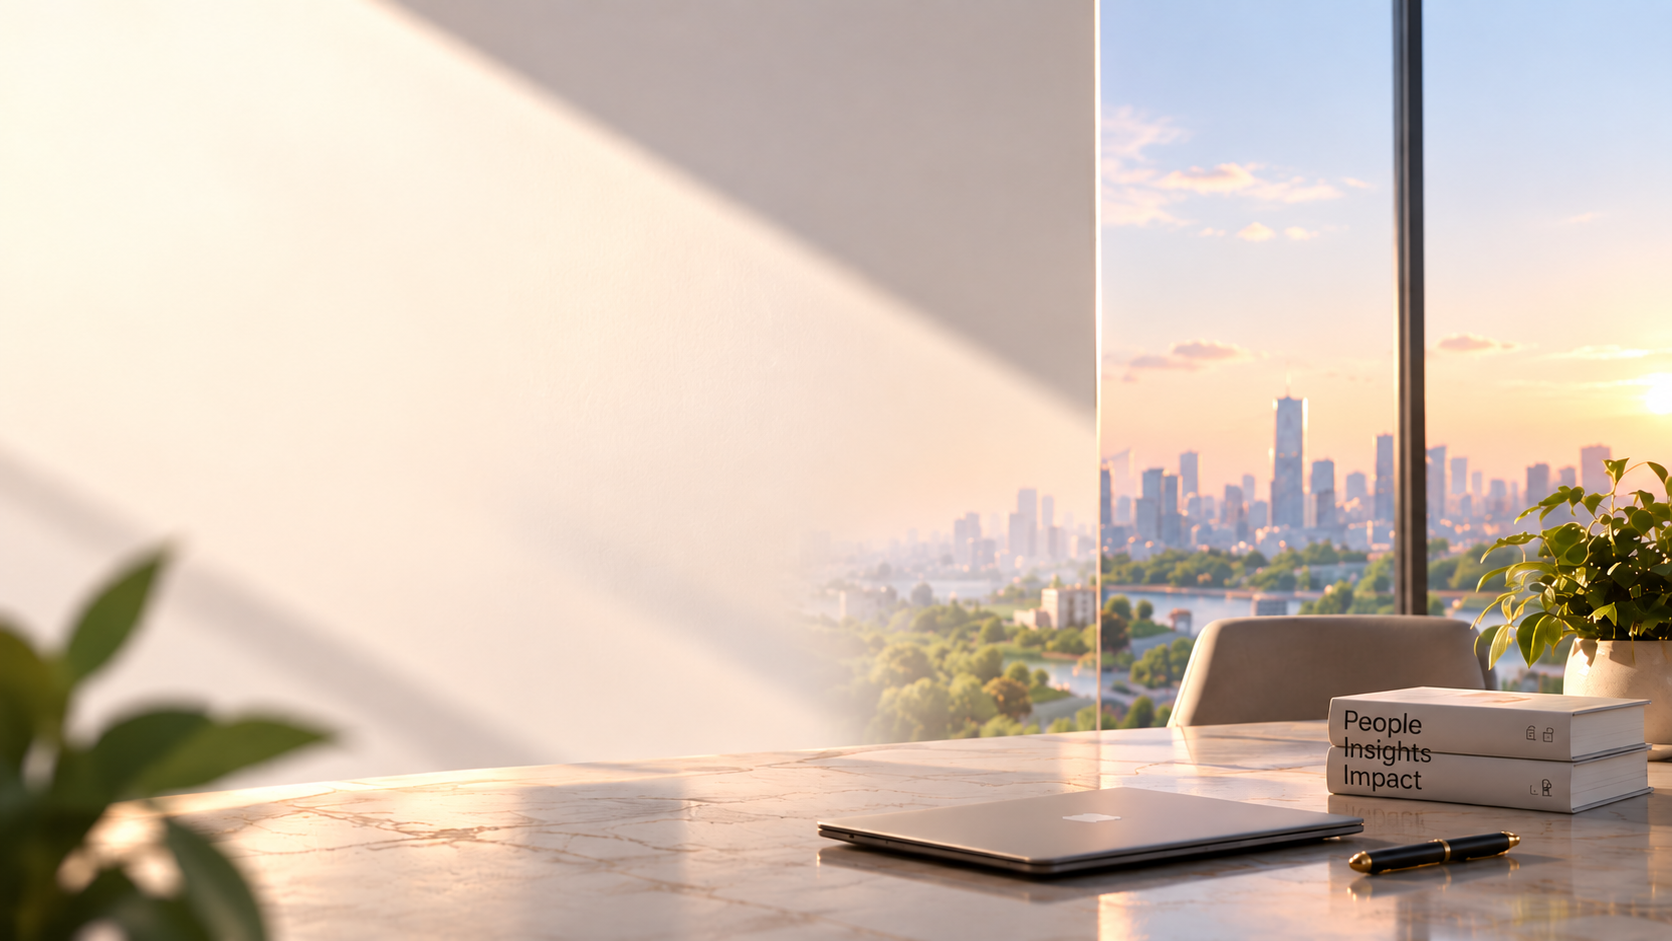
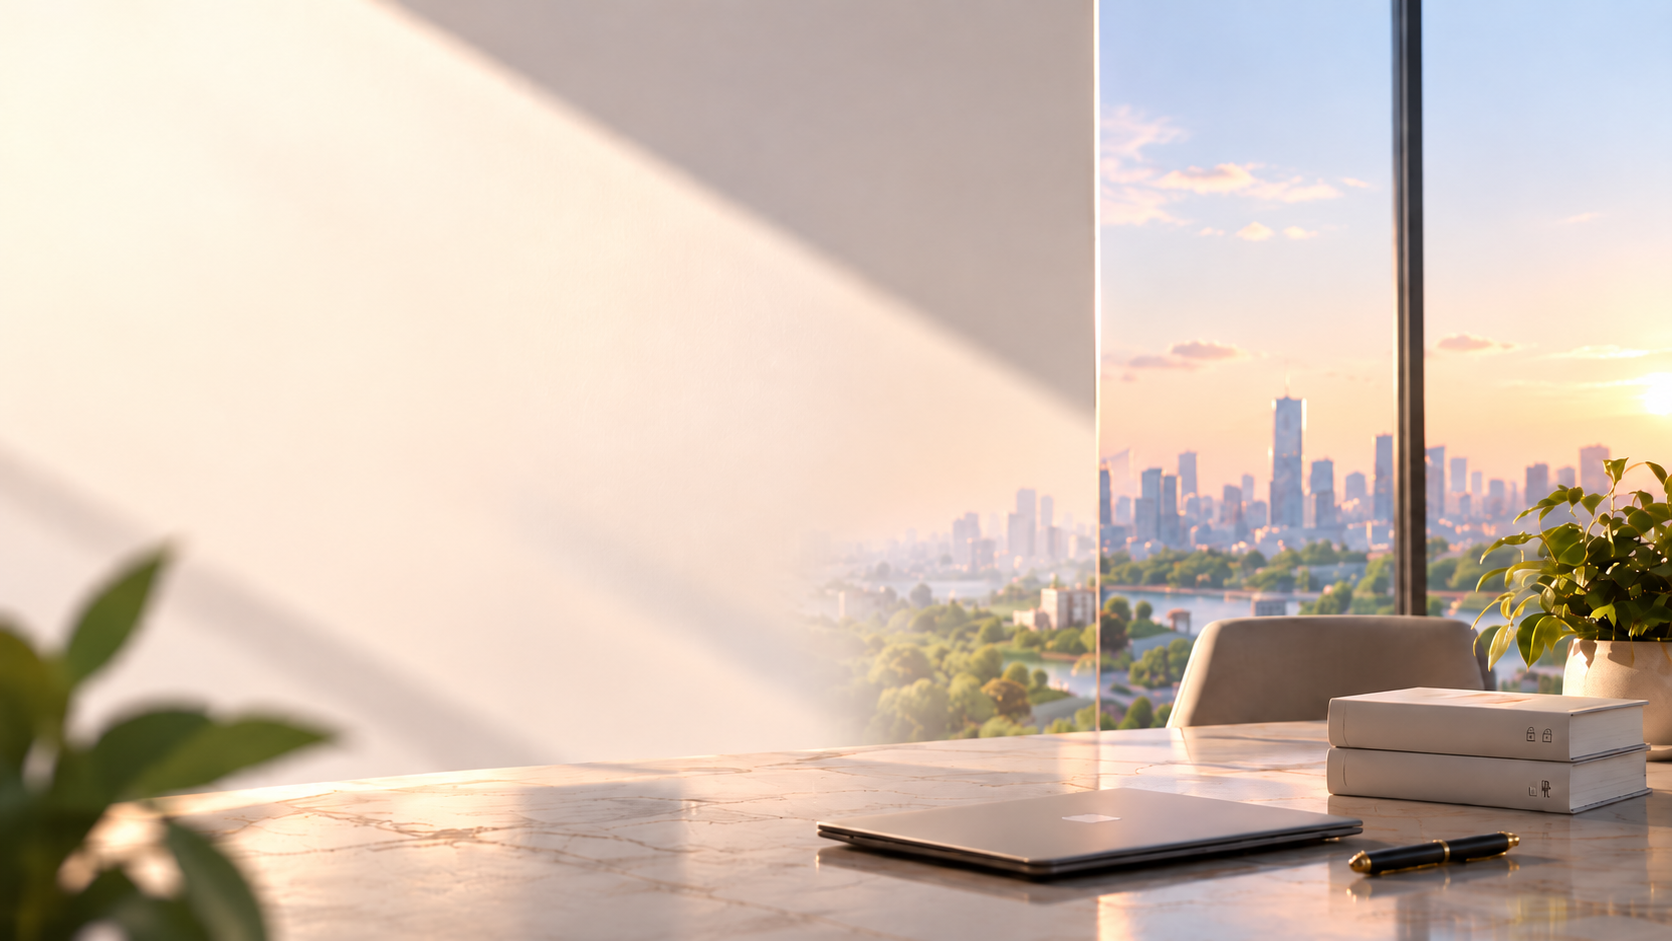
KM-51: the dialog stops jumping, Dex stops and previews, the Dex pill lights up
Items 2, 3 and 4 of the demo batch. Items 1, 5, 6 shipped in KM-50.

── 2. The New Task dialog "jumps off" ─────────────────────────────────────
Not a select bug and not a platform bug — the founder saw it on desktop,
Android and iOS because it happens every time. Three blocks in this form are
conditional: the operational-category select appears with `isOp`, the
assign-by-role select DISAPPEARS the moment you pick a person, and the
approver select appears with the checkbox. Radix centres the panel, so
removing ~90px of field moves the top edge down 45px and pulls everything
below it up. Measured on the same DOM, ticking one checkbox:

    centred (before)      box top moved -45px, title field moved -45px
    top-anchored (after)  box top moved   0px, title field moved   0px

Desktop is now anchored at 6vh, so height changes are absorbed downward and
nothing above the change moves. Phone goes full-bleed, which is the founder's
own fallback and independently right: iOS shrinks the visual viewport when a
<select> picker opens, and h-full resolves against the layout viewport, which
the picker does not touch.

Two traps in the way, both caught by measuring the shipped CSS:
  · `rounded-none` is redefined to 0.5rem by a legacy shim in index.css, so
    the full-screen sheet is squared off with [border-radius:0] instead.
  · tailwindcss-animate's class names are not in tailwind-merge's group
    table, so `slide-in-from-top-0` did not replace `slide-in-from-top-[48%]`
[…]

diff --git a/frontend/src/hooks/useDexCapture.js b/frontend/src/hooks/useDexCapture.js
@@ -29,11 +29,21 @@ const POLL_MS = 1200;
 const POLL_TIMEOUT_MS = 90000;
 
 /**
- * @param {{onCaptured?:Function, onRecordingChange?:Function, watch?:boolean}} opts
+ * @param {{onCaptured?:Function, onRecordingChange?:Function, watch?:boolean,
+ *          onTranscript?:Function}} opts
  *        watch — poll the note until it is structured and expose `understanding`.
  *        Off by default so DexCaptureBar's behaviour is bit-for-bit unchanged.
+ *
+ *        onTranscript — KM-51. When given, stopping a recording TRANSCRIBES AND
+ *        STOPS THERE: the text is handed back and nothing is structured, nothing
+ *        is auto-sent. It exists because the phone's Dex had no review step —
+ *        `mr.onstop` uploaded, `follow()` structured, and an answer appeared for
+ *        something the founder had not confirmed saying. Their words: "only when
+ *        I press the stop button it should take that as a query", and then a
+ *        preview before it goes anywhere. A hook that both records AND commits
+ *        cannot offer that, so the commit half is now the caller's decision.
  */
-export function useDexCapture({ onCaptured, onRecordingChange, watch = false } = {}) {
+export function useDexCapture({ onCaptured, onRecordingChange, watch = false, onTranscript } = {}) {
   const [text, setText] = useState("");
   const [sending, setSending] = useState(false);
   const [recording, setRecording] = useState(false);
@@ -42,6 +52,10 @@ export function useDexCapture({ onCaptured, onRecordingChange, watch = false } =
   const [levels, setLevels] = useState(() => new Array(BARS).fill(0));
   // { noteId, status, transcript, language, decision, tasks[] } | null
   const [understanding, setUnderstanding] = useState(null);
+  // Held in a ref so changing the handler never re-creates startRecording and
+  // orphans a live MediaRecorder.
+  const onTranscriptRef = useRef(onTranscript);
+  onTranscriptRef.current = onTranscript;
 
   const mediaRef = useRef(null);
   const chunksRef = useRef([]);
@@ -99,6 +113,35 @@ export function useDexCapture({ onCaptured, onRecordingChange, watch = false } =
       if (mediaRef.current?.state === "recording") mediaRef.current.stop();
     };
   }, [stopMeter]);
+
+  /** KM-51 — poll one note only until its TRANSCRIPT exists, then hand it back.
+      Deliberately not `follow()`: that one waits for `status === "done"` and a
+      decision_id, i.e. for the server to have committed the thing. Here the
+      transcript is the whole point and the commit has not been authorised yet. */
+  const pollTranscript = useCallback(async (noteId) => {
+    const startedAt = Date.now();
+    const gen = ++followRef.current;
+    const live = () => aliveRef.current && followRef.current === gen;
+    const step = async () => {
+      if (!live()) return;
+      try {
+        const note = (await api.get(`/voice-notes/${noteId}`)).data || {};
+        if (note.transcript) { setSending(false); onTranscriptRef.current?.(note.transcript); return; }
+        if (note.status === "failed" || note.error) {
+          setSending(false);
+          toast.error(note.error || "Could not transcribe that");
+          return;
+        }
+      } catch { /* a dropped poll is not a failure — the next one may land */ }
+      if (Date.now() - startedAt > POLL_TIMEOUT_MS) {
+        setSending(false);
+        toast.error("Transcription timed out");
+        return;
+      }
+      pollRef.current = setTimeout(step, POLL_MS);
+    };
+    step();
+  }, []);
 
   /** Poll one note until it is structured, then read the decision it produced. */
   const follow = useCallback(async (noteId, seed = {}) => {
@@ -199,12 +242,20 @@ export function useDexCapture({ onCaptured, onRecordingChange, watch = false } =
           const res = await api.post("/voice-notes", fd, {
             headers: { "Content-Type": "multipart/form-data" },
           });
+          /* KM-51 — with onTranscript the upload is a TRANSCRIPTION request and
+             nothing more. `sending` deliberately stays true through the poll,
+             because from the founder's side one wait is still running. */
+          if (onTranscriptRef.current && res.data?.id) {
+            pollTranscript(res.data.id);
+            onCaptured?.();
+            return;
+          }
           if (watch && res.data?.id) follow(res.data.id);
           else toast.success("Voice captured — Dex is structuring it");
           onCaptured?.();
+          setSending(false);
         } catch (e) {
           toast.error(e.response?.data?.detail || "Upload failed");
-        } finally {
           setSending(false);
         }
       };
@@ -254,7 +305,7 @@ export function useDexCapture({ onCaptured, onRecordingChange, watch = false } =
       toast.error("Microphone not available");
       return false;
     }
-  }, [watch, follow, onCaptured, stopMeter]);
+  }, [watch, follow, onCaptured, stopMeter, pollTranscript]);
 
   const stopRecording = useCallback(() => {
     if (mediaRef.current?.state === "recording") mediaRef.current.stop();

diff --git a/frontend/src/pages/Tasks.js b/frontend/src/pages/Tasks.js
@@ -127,7 +127,49 @@ export function NewTaskDialog({ onCreated, roleOptions, members, defaultType, tr
           the fields sit in is the same material as every card behind it. The
           default close X is hidden and replaced below, aligned with the title
           rather than floating in the corner. */}
-      <DialogContent className="kr-bento max-h-[90vh] overflow-y-auto rounded-cardlg border-0 [&>button.absolute]:hidden">
+      {/* KM-51 — the dialog "jumps off" because it is CENTRED and its height
+          CHANGES while you use it.
+
+          Three blocks in this form are conditional: the operational-category
+          select appears with `isOp`, the assign-by-role select DISAPPEARS the
+          moment you pick a person, and the approver select appears with the
+          approval checkbox. Radix centres the panel — top:50% with a -50%
+          translate — so removing ~70px of field moves the top edge down 35px
+          and pulls everything below it up 70px. Two motions at once, on the
+          exact click that caused them. Founder: "click any options and menu,
+          it jumps off in both desktop, android and iOS." Three platforms
+          because it was never a platform bug.
+
+          Desktop: anchor the panel to the top instead. Height then grows and
+          shrinks downward only, and nothing above the change moves.
+
+          Phone: go full-bleed, which is the founder's own fallback ("if can't
+          fix then make it as a full screen page") and independently right —
+          iOS shrinks the visual viewport when a <select> picker opens, so a
+          vh-sized centred box really does slide off. Pinned to all four edges
+          it has nowhere to go, and h-full resolves against the layout
+          viewport, which the picker does not touch.
+
+          The slide offsets are zeroed to match — they were written for a
+          centred panel and would otherwise start it 48% of its own height
+          above the screen. They are zeroed by writing tailwindcss-animate's
+          VARIABLES rather than by passing `slide-in-from-top-0`: those class
+          names are not in tailwind-merge's group table, so cn() keeps both
+          and the arbitrary `-[48%]` wins on source order. Measured: the
+          override class was present and --tw-enter-translate-y was still
+          -48%. Setting the custom property has no such contest. */}
+      <DialogContent
+        className="kr-bento overflow-y-auto border-0 [&>button.absolute]:hidden
+                   left-0 top-0 h-full w-full max-w-none translate-x-0 translate-y-0
+                   [border-radius:0]
+                   [padding-top:max(1rem,env(safe-area-inset-top))]
+                   [padding-bottom:max(1rem,env(safe-area-inset-bottom))]
+                   lg:left-[50%] lg:top-[6vh] lg:h-auto lg:max-h-[88vh] lg:max-w-lg
+                   lg:-translate-x-1/2 lg:[border-radius:var(--radius-card)]
+                   lg:[padding-block:1.5rem]
+                   data-[state=open]:[--tw-enter-translate-x:0] data-[state=open]:[--tw-enter-translate-y:0]
+                   data-[state=closed]:[--tw-exit-translate-x:0] data-[state=closed]:[--tw-exit-translate-y:0]"
+      >
         <DialogHeader className="pr-11">
           <DialogPrimitiveClose
             data-testid="task-dialog-close"

diff --git a/frontend/src/components/mobile/DexChat.jsx b/frontend/src/components/mobile/DexChat.jsx
@@ -1,7 +1,7 @@
 import * as React from "react";
 import { AnimatePresence, motion } from "framer-motion";
 import {
-  Plus, X, Paperclip, Camera, Keyboard, CircleNotch, Sparkle,
+  Plus, X, Paperclip, Camera, Keyboard, Microphone, CircleNotch, Sparkle,
 } from "@phosphor-icons/react";
 import { cn } from "@/lib/utils";
 
@@ -65,7 +65,13 @@ function Bubble({ m, index }) {
         className={cn(
           "max-w-[85%] rounded-3xl px-4 py-3 text-sm leading-relaxed",
           mine
-            ? "kr-frost-min rounded-br-lg text-foreground"
+            /* KM-51 — SOLID white, not the translucent frost. Founder: "the
+               chat colour for the AI side is black and the human user side is
+               transparent white, I want it in solid white." They are right that
+               it read as unfinished: the pair only works as a pair, and a
+               translucent bubble opposite an opaque one looks like one of them
+               failed to load rather than like two speakers. */
+            ? "rounded-br-lg bg-white text-foreground shadow-[0_2px_10px_-4px_hsl(230_30%_18%/.35)]"
             : "rounded-bl-lg bg-kr-ink text-white shadow-[0_8px_24px_-12px_hsl(216_28%_18%/.6)]"
         )}
       >
@@ -127,7 +133,14 @@ export function DexChat({ open, onClose, dex, chat }) {
   /* The three ways in that are not the microphone. "Type" flips the DOCK into
      a text field rather than opening a field here — same bar, different mode. */
   const ACTIONS = [
-    { key: "type", icon: Keyboard, label: "Type", onClick: () => { setMode(mode === "type" ? "voice" : "type"); setPlusOpen(false); } },
+    /* KM-51 — THE ICON FOLLOWS WHAT THE BUTTON WILL DO, not what mode you are
+       in. It was always a keyboard, so in type mode it offered "Type" while
+       actually switching back to voice — the founder could not tell it was the
+       mic toggle until they pressed it. Now it shows a microphone and says
+       Speak while typing, and a keyboard and says Type while not. */
+    mode === "type"
+      ? { key: "type", icon: Microphone, label: "Speak", onClick: () => { setMode("voice"); setPlusOpen(false); } }
+      : { key: "type", icon: Keyboard, label: "Type", onClick: () => { setMode("type"); setPlusOpen(false); } },
     { key: "file", icon: Paperclip, label: "Attach", onClick: () => { dex?.fileRef?.current?.click(); setPlusOpen(false); } },
     { key: "photo", icon: Camera, label: "Photo", onClick: () => { photoRef.current?.click(); setPlusOpen(false); } },
   ];

diff --git a/frontend/src/hooks/useDexConversation.js b/frontend/src/hooks/useDexConversation.js
@@ -91,16 +91,33 @@ export function useDexConversation({ dex, open } = {}) {
     }
   }, [push]);
 
-  /** What the FAB does right now — the single source for its icon and action. */
+  /** What the FAB does right now — the single source for its icon and action.
+      KM-51 — A DRAFT NOW OUTRANKS THE MODE. It used to read "send" only in type
+      mode, so after a voice capture the button went straight back to a mic and
+      there was nothing to press to send what you had just said. A draft is a
+      draft however it got there: recording wins (stop), then any draft (send),
+      then the mode decides. */
   const fabIntent =
     dex?.recording ? "stop"
-    : mode === "type" ? (draft.trim() ? "send" : "keyboard")
+    : draft.trim() ? "send"
+    : mode === "type" ? "keyboard"
     : "mic";
 
+  /* KM-51 — THREE PRESSES, THREE JOBS, and stop no longer sends.
+     Before: stopping a recording uploaded it, the server structured it, and an
+     answer arrived for something never confirmed. Founder: "I can't stop the
+     recording... it takes it as a query and gives the answer, but I don't want
+     it like that." So stop STOPS. The transcript comes back into the draft as a
+     preview, the button becomes a send arrow, and the second press is what
+     commits it — the same two-step typing already had. */
   const submit = useCallback(() => {
-    if (mode === "type") { ask(draft); return; }
-    if (dex?.recording) dex.stopRecording?.();
-    else dex?.startRecording?.();
+    if (dex?.recording) { dex.stopRecording?.(); return; }
+    /* Transcription is still in flight. Without this the button falls through
+       to "start recording" and you are taping over the thing you just said. */
+    if (dex?.sending) return;
+    if (draft.trim()) { ask(draft); return; }
+    if (mode === "type") return;      // empty field: nothing to send
+    dex?.startRecording?.();
   }, [ask, draft, dex, mode]);
 
   return { log, busy, mode, setMode, draft, setDraft, ask, attach, submit, fabIntent };

diff --git a/frontend/src/components/karma/PillNav.jsx b/frontend/src/components/karma/PillNav.jsx
@@ -71,7 +71,21 @@ export function PillNav({ items = [], size = "md", className, testid, plate = fa
                      was not. Ink at 28% over the plate gives that edge 4.70:1
                      against the fill it encloses, so the selected item is
                      findable by shape as well as by weight. */
-                  ? "bg-white text-kr-ink shadow-[0_0_0_1px_hsl(230_30%_18%/.28),0_2px_10px_-3px_hsl(230_30%_18%/.45)]"
+                  /* KM-51 — `bg-[#fff]`, not `bg-white`, and the difference is
+                     not cosmetic. A legacy compatibility shim in index.css
+                     (`@layer utilities { .dark .bg-white { background-color:
+                      hsl(var(--card)) } }`, ~line 266) blanket-rewrites EVERY
+                     bg-white in dark mode. /brain runs dark, so the selected
+                     pill's fill silently became --card, rgb(24,24,27), while
+                     text-kr-ink stayed rgb(12,12,13): measured 1.06:1, black
+                     on black. Founder: "the current page menu, which is Dex,
+                     is completely dark."
+                     The shim matches on the class NAME, so an arbitrary-value
+                     class is out of its reach and the pill is the literal
+                     white this design always meant. Identical on light pages;
+                     19.6:1 in the Dex room, where a white pill on the dark
+                     plate is exactly the "one lit thing" this variant is for. */
+                  ? "bg-[#fff] text-kr-ink shadow-[0_0_0_1px_hsl(230_30%_18%/.28),0_2px_10px_-3px_hsl(230_30%_18%/.45)]"
                   : "bg-kr-ink text-white"
                 /* KR-14 — the unselected pills step BACK, then light up on
                    hover without moving.

diff --git a/frontend/src/components/Layout.js b/frontend/src/components/Layout.js
@@ -261,15 +261,24 @@ export default function Layout({ children }) {
      that now renders the voice UI is the dock, not a sheet. Layout is the only
      common parent of the FAB (which starts it), the bar (which draws it) and
      the sheet (which still shows what Dex heard afterwards). */
+  /* KM-51 — the transcript sink. useDexCapture is created BEFORE
+     useDexConversation (it is the conversation's input), so the setter it needs
+     to hand a transcript to does not exist yet. A ref filled on the next line
+     down breaks the cycle without reordering two hooks that genuinely depend on
+     each other in that direction. */
+  const draftSinkRef = useRef(null);
   const dex = useDexCapture({
     watch: true,
     onRecordingChange: (on, secs) => setDexRecording({ on, secs }),
     onCaptured: () => qc.invalidateQueries({ queryKey: ["captures-pending"] }),
+    // Stopping a recording now yields TEXT for review, not a committed capture.
+    onTranscript: (text) => draftSinkRef.current?.(text),
   });
   /* KM-26 — one conversation, three surfaces: the dock hosts the input, the
      FAB submits it, the transcript shows it. None of them can own the state, so
      it lives in the hook and Layout hands it to all three. */
   const chat = useDexConversation({ dex, open: dexOpen });
+  draftSinkRef.current = chat.setDraft;
   const [langOpen, setLangOpen] = useState(false);
   // KR-5: the global search moved into a ⌘K dialog; same /brain?q= handoff.
   const [globalQuery, setGlobalQuery] = useState("");

diff --git a/frontend/src/components/mobile/FloatingDock.jsx b/frontend/src/components/mobile/FloatingDock.jsx
@@ -187,7 +187,12 @@ export function FloatingDock({
             duplicated. py-2 is the "adequate spacing above and below" so the
             ribbons never touch the pill's edge. */}
         {dexActive ? (
-          dexMode === "type" ? (
+          /* KM-51 — the field also appears when there is a DRAFT, whatever the
+             mode. After a voice capture the transcript lands here as a preview:
+             the founder reads back what Dex heard, edits it if it is wrong, and
+             only then presses send. Previously voice mode could only ever draw
+             the wave, so a stopped recording had nowhere to be shown. */
+          (dexMode === "type" || dexDraft) ? (
             <input
               autoFocus
               data-testid="dock-dex-input"
